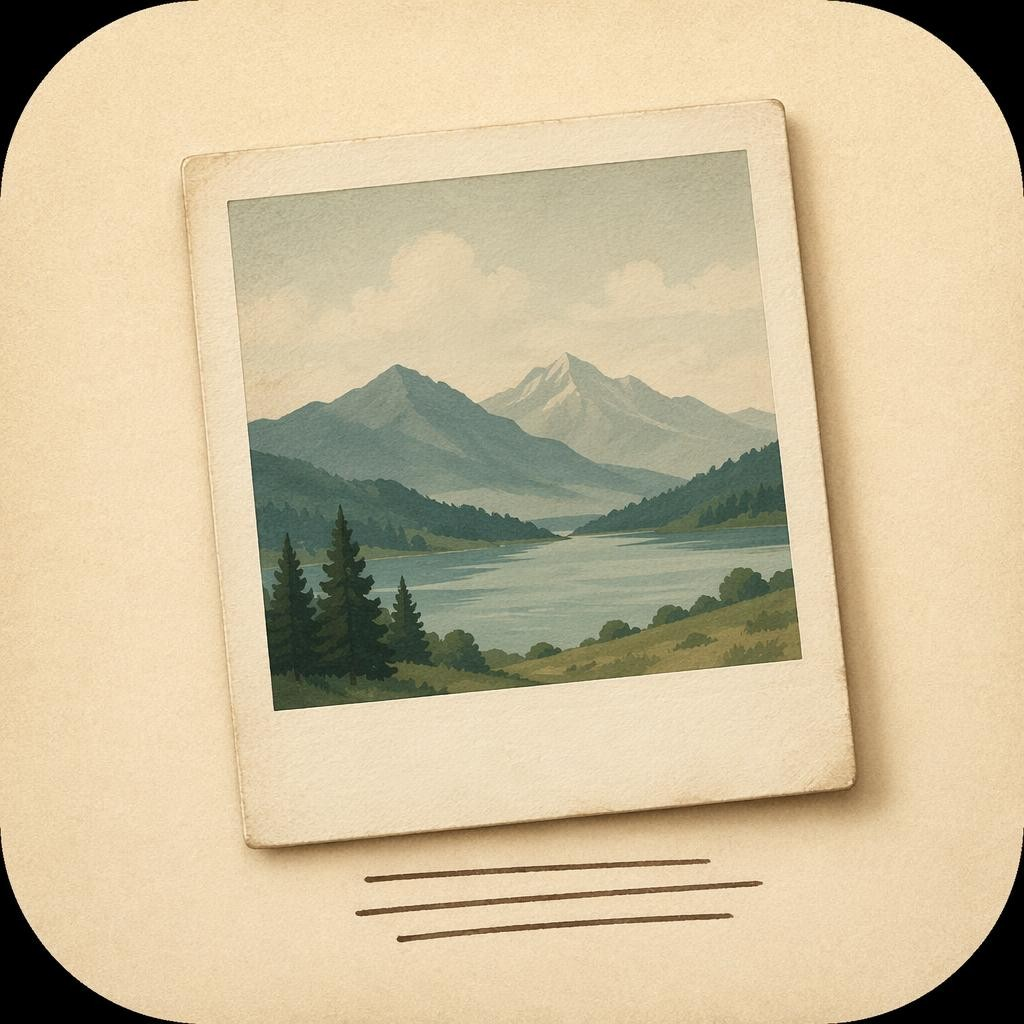
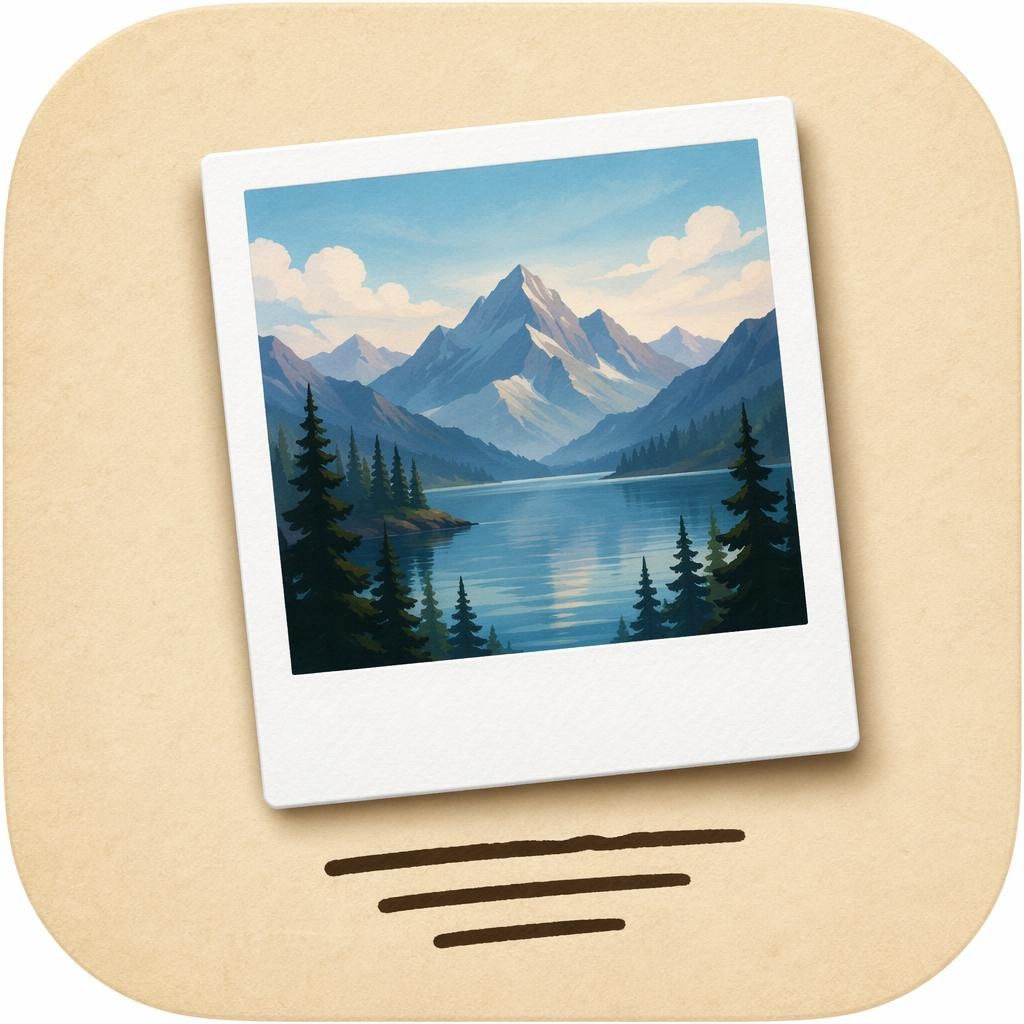
Icône v2 (contraste renforcé) + fenêtre chromeless
Icône
- Source remplacée par une version à fort contraste : polaroid blanc pur sur
  fond caramel, photo de montagne saturée, traits de plume bolds. Les trois
  plans (papier / polaroid / photo) se distinguent désormais nettement
  même à 16 px.
- build_app.sh : regen .icns quand la source JPG est plus récente que
  l'.icns existant (avant : régénération seulement si .icns absent, ce
  qui forçait un rm manuel).

Header chromeless
- .windowStyle(.hiddenTitleBar) : supprime la barre grise répétant le nom,
  ne laisse que les feux tricolores flottants sur le contenu crème.
- Padding gauche du header élargie à 80 px pour laisser passer les feux.
- ClipShape RoundedRectangle continuous sur l'icône du header : coupe net
  l'anti-aliasing résiduel du bord du squircle qui créait une frange claire
  visible à 28 px sur fond crème.

diff --git a/Sources/Imprint/ContentView.swift b/Sources/Imprint/ContentView.swift
@@ -34,12 +34,18 @@ struct ContentView: View {
                 .interpolation(.high)
                 .aspectRatio(contentMode: .fit)
                 .frame(width: 28, height: 28)
+                // Coupe l'anti-aliasing résiduel du bord du squircle qui crée
+                // une frange claire visible à petite taille sur fond crème.
+                .clipShape(RoundedRectangle(cornerRadius: 6.3, style: .continuous))
             Text("Imprint")
                 .font(Theme.headingFont)
                 .foregroundStyle(Theme.ink)
             Spacer()
         }
-        .padding(.horizontal, 24)
+        // Padding gauche élargie pour laisser passer les feux tricolores
+        // (la barre de titre est cachée via .windowStyle(.hiddenTitleBar)).
+        .padding(.leading, 80)
+        .padding(.trailing, 24)
         .padding(.vertical, 14)
         .background(Theme.paper)
         .overlay(

diff --git a/Sources/Imprint/ImprintApp.swift b/Sources/Imprint/ImprintApp.swift
@@ -6,6 +6,7 @@ struct ImprintApp: App {
         Window("Imprint", id: "imprint-main") {
             ContentView()
         }
+        .windowStyle(.hiddenTitleBar)
         .windowResizability(.contentSize)
         .commands {
             CommandGroup(replacing: .newItem) {}